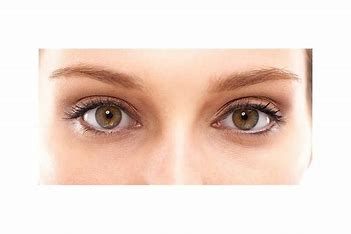
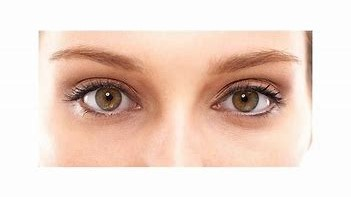
edits

diff --git a/lesson7.html b/lesson7.html
@@ -94,12 +94,13 @@
 
 		<h1>Lesson 7 - Emotions and Sensations</h1>
 		<p>An emotion is a complex psychological state that involves three distinct components: a subjective experience, a physiological response, and a behavioral or expressive response.</p>
-		
+		<br>
 
 		<h2>EMOTIONS</h2>
-		<p>Emotions are reactions that human beings experience in response to events or situations. The type of emotion a person experiences is determined by the circumstance that triggers the emotion. For instance, a person experiences joy when they receive good news. A person experiences fear when they are threatened </p>
+		<p>Emotions are reactions that human beings experience in response to events or situations. The type of emotion a person experiences is determined by the circumstance that triggers the emotion. For instance, a person experiences joy when they receive good news. A person experiences fear when they are threatened.</p>
 		<p>Emotions are a fundamental part of the human experience. We all experience a range of emotions throughout our lives, from happiness and joy to sadness and anger. Some of the most common emotions include love, fear, excitement, sadness, anger, and happiness.</p>
-		
+		<br>
+
 		<div class="container text-center">
 			<div class="row row-cols-2">
 				<div class="col">
@@ -119,6 +120,7 @@
 						<img src="image/esad.jpeg" alt="Sad Emoji">
 					</div>
 				</div>
+				<hr><hr>
 
 				<div class="col">
 					<h3>Scared</h3>
@@ -148,7 +150,7 @@
 				</div>
 			</div>
 		</div>
-
+		<br>
 
 		<h2>BODY PARTS</h2>
 		<p>The human body is a complex system that is made up of many different parts, each with its own unique function. Some of the most important body parts include the brain, heart, lungs, and stomach. Other important body parts include the arms, legs, hands, feet, and fingers, which allow us to move and interact with the world around us. Learning about our body parts is important for understanding how our bodies work, and it can help us to stay healthy and take care of ourselves.</p>
@@ -181,7 +183,7 @@
 		<h3>Eye</h3>
 		<p>The eyes detect light and convert it into electrical signals that the brain can interpret as visual information. The eyes vary in colour depending upon the amount of melanin present in our body. It helps in the sense of sight by detecting and focussing on the light images.</p>
 		<div class="text-center">
-			<img src="image/eyes.jpeg" alt="Eye" width="450" height="405">
+			<img src="image/eyes.jpeg" alt="Eye" width="400" height="250">
 		</div>
 
 		<h3>Ear</h3>
@@ -193,7 +195,7 @@
 		<h3>Nose</h3>
 		<p>The nose is an olfactory organ. Our olfactory system helps us to perceive different smells. This sense of organ also aids our sense of taste. The sense of smell is also known as olfaction.</p>
 		<div class="text-center">
-			<img src="image/nose.jpg" alt="Nose" width="350" height="305">
+			<img src="image/nose.jpg" alt="Nose" width="350" height="300">
 		</div>
 
 		<h3>Tongue</h3>
@@ -201,6 +203,7 @@
 		<div class="text-center">
 			<img src="image/tongue.jpeg" alt="Tongue" width="350" height="305">
 		</div>
+		<br><br>
 
 		<div class="center">
 			<a class="btn-quiz" href="quiz7.html">TRY QUIZ</a>

diff --git a/css/stylel7.css b/css/stylel7.css
@@ -82,10 +82,26 @@ p {
 	justify-content: space-between;
 }
 
+.row .col {
+	padding: 0 20px;
+}
+
+.col p {
+	height: 10rem;
+}
+
 .images img {
 	width: 300px;
 	height: 300px;
-	margin: 10px;
+	margin: 15px;
+}
+
+.row hr {
+	border-top: 1.5px dashed #fff;
+}
+
+.text-center img {
+	margin: 30px 0;
 }
 
 /* Quiz button */
